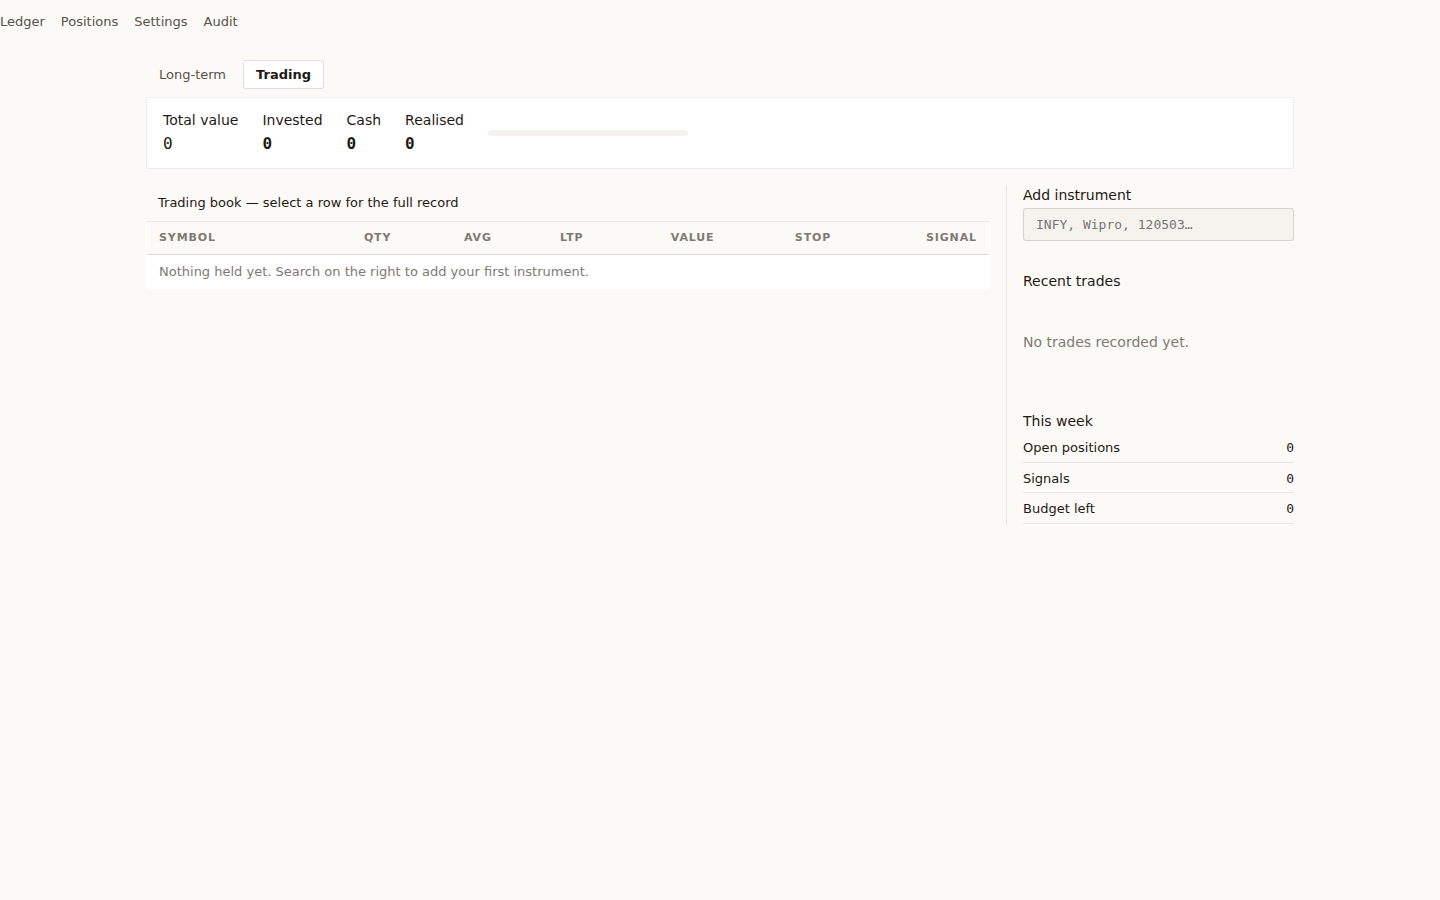
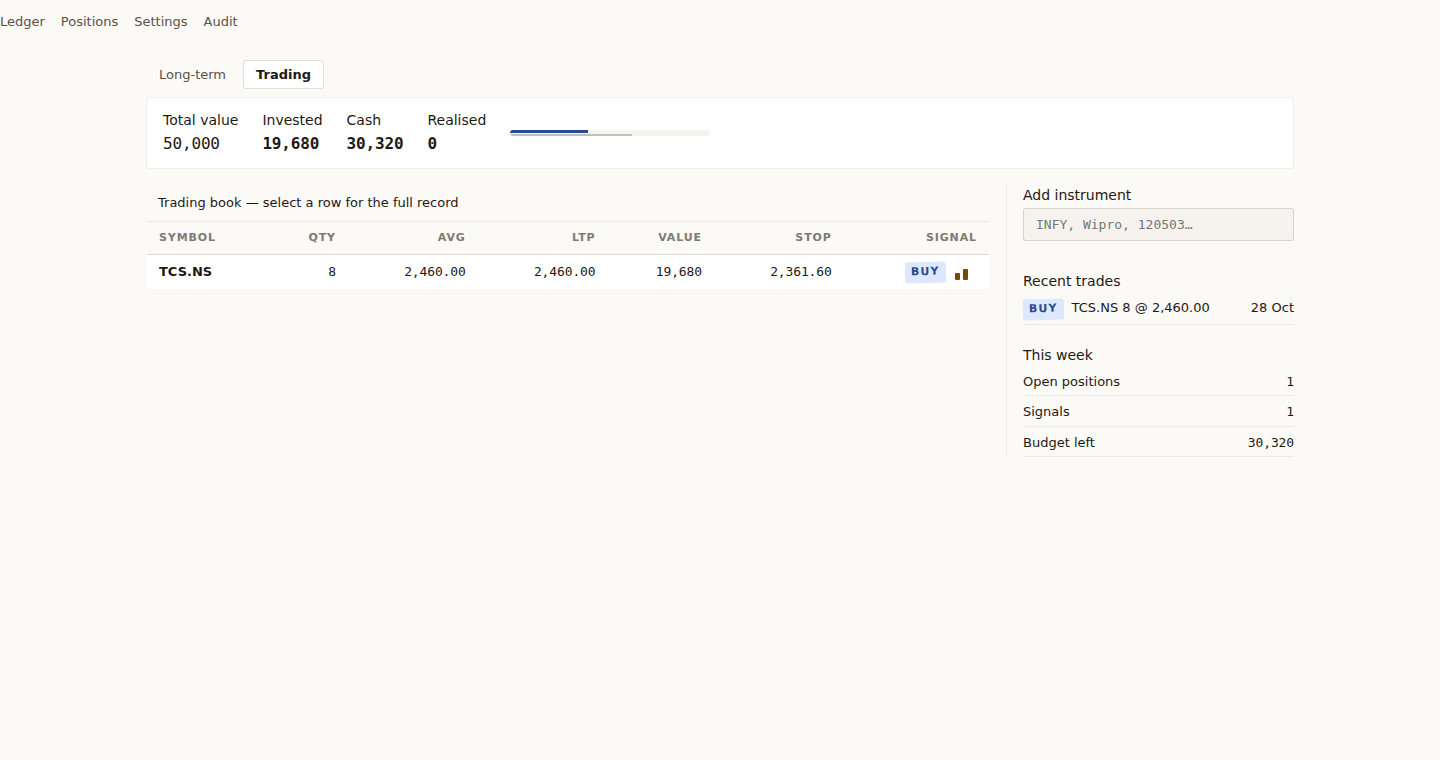
docs: five screenshots and the real long-term vs trading difference

diff --git a/web/src/pages/settings.ts b/web/src/pages/settings.ts
@@ -14,7 +14,7 @@ function limitFields(mode: "long" | "trade", label: string, l: Limits): string {
              value="${l[name]}" />
       ${hint ? `<p class="help">${hint}</p>` : ""}
     </div>`;
-  return `<fieldset class="field-group">
+  return `<fieldset class="field-group" id="limits-${mode}">
     <legend class="lbl">${label}</legend>
     ${field("min_profit_pct", "Minimum profit %", "0.5", "A take-profit below this is rejected.")}
     ${field("max_profit_pct", "Maximum profit %", "0.5", "A target above this is rejected — no fantasy numbers.")}
@@ -73,7 +73,7 @@ export function renderSettings(s: Settings): string {
           ${limitFields("trade", "Trading limits", s.limits_trade)}
         </div>
 
-        <fieldset class="field-group">
+        <fieldset class="field-group" id="model">
           <legend class="lbl">Model provider</legend>
           <div class="field">
             <label class="lbl" for="llm_provider">Provider</label>
@@ -113,7 +113,7 @@ export function renderSettings(s: Settings): string {
             }</p>
           </div>
         </fieldset>
-        <fieldset class="field-group">
+        <fieldset class="field-group" id="ntfy">
           <legend class="lbl">Phone notifications (ntfy)</legend>
           <div class="field">
             <label class="lbl" for="ntfy_topic">Topic</label>

diff --git a/web/src/main.ts b/web/src/main.ts
@@ -25,6 +25,10 @@ async function route(): Promise<void> {
       app.innerHTML = renderSettings(s);
       wireSettings();
       await route2();
+      // Deep link into a section: the element only exists after this render.
+      if (location.hash) {
+        document.querySelector(location.hash)?.scrollIntoView({ block: "start" });
+      }
     } else if (path === "/positions") {
       app.innerHTML = renderPositions(await api.dashboard());
       wireRows();

diff --git a/benches/hot_paths.rs b/benches/hot_paths.rs
@@ -72,7 +72,8 @@ fn bench_prompt(c: &mut Criterion) {
         ind: &ind,
         last_close: 1163.0,
         cash_available: 96_388.86,
-        target_profit_pct: Some(15.0),
+        target_profit_pct: Some(5.0),
+        limits: "trade size 500 to 50000 per fill; take-profit between 5% and 50%",
         headlines: &headlines,
         window_hours: 6,
         price_window: &tape,

diff --git a/README.md b/README.md
@@ -60,16 +60,46 @@ decision above it is the model's, and the validator — not either of them — h
 
 ![Instrument](docs/screenshots/instrument.png)
 
-**Trading pot** — the same instrument set, a separate budget, a separate book.
+**Trading pot** — a separate ceiling, a separate book, separate limits. Same instrument set,
+different capital.
 
 ![Trading](docs/screenshots/trading.png)
 
-**Settings** — budget and currency, then the two pots' risk limits side by side so they can be
-compared, then the model provider (DeepSeek, OpenAI, Gemini or any OpenAI-compatible endpoint)
-with its key, and the ntfy push channel with a test button. Keys are write-only: the API reports
-only whether one is configured.
+**Settings, part 1** — budget and currency, then the two pots' limits side by side so they can be
+compared rather than read in sequence.
 
-![Settings](docs/screenshots/settings.png)
+![Settings: budget and limits](docs/screenshots/settings-limits.png)
+
+**Settings, part 2** — model provider (DeepSeek, OpenAI, Gemini or any OpenAI-compatible
+endpoint) with its key, and the ntfy push channel with a test button. Keys are write-only: the
+API reports only whether one is configured.
+
+![Settings: provider and notifications](docs/screenshots/settings-model.png)
+
+## Long-term and trading: what actually differs
+
+Two books, one process. The difference is *capital and rules*, not a different engine.
+
+| | Long-term | Trading |
+|---|---|---|
+| Capital | Long-term pot | Its own pot; never draws on the other, and the other never draws on it |
+| Limits | Its own five numbers | Its own five numbers, usually tighter |
+| Holdings | Separate positions, even in the same symbol | Separate positions, even in the same symbol |
+| History | Own fills and realised P&L | Own fills and realised P&L |
+| Polling | Same poll, same cadence | Same poll, same cadence |
+
+**How the server behaves differently for them:** the poll tick walks the watchlist once and
+evaluates each instrument against the pot it belongs to, using that pot's limits — so a switch to
+the Trading tab changes which book you see, not how often anything is fetched. Cash, exposure and
+the per-trade caps are computed per pot, which is why a swing trade cannot block a long-term buy.
+Because both live in one process, one instrument can appear in both books with two independent
+positions (the screenshot above shows TCS in the trading book while the long-term book holds it
+separately).
+
+**What is *not* different yet, plainly:** there is no separate trading strategy and no candidate
+discovery. Both pots run the same rules (trend, RSI, ATR) and the same prompt, with the trading
+pot distinguished by its capital, its limit set and its own books. A momentum scanner and a
+swing-specific prompt are the missing half of the trading mode, and they are not built.
 
 ## Quick start
 
